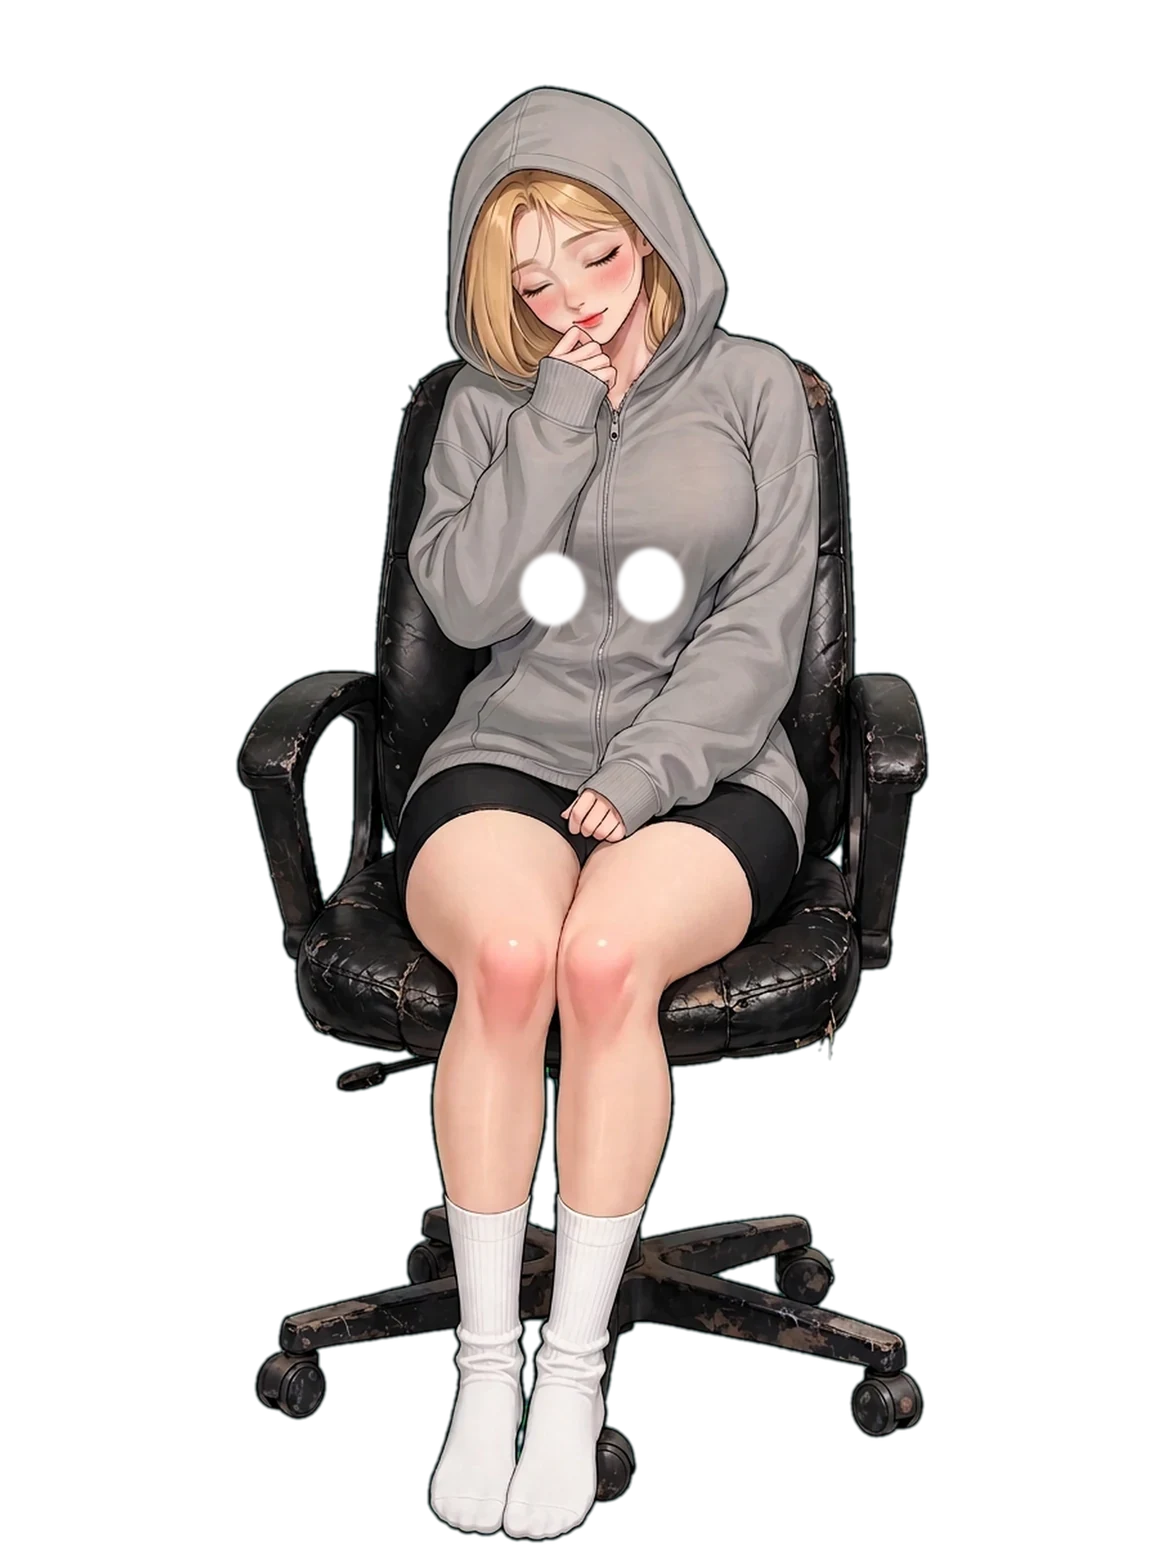
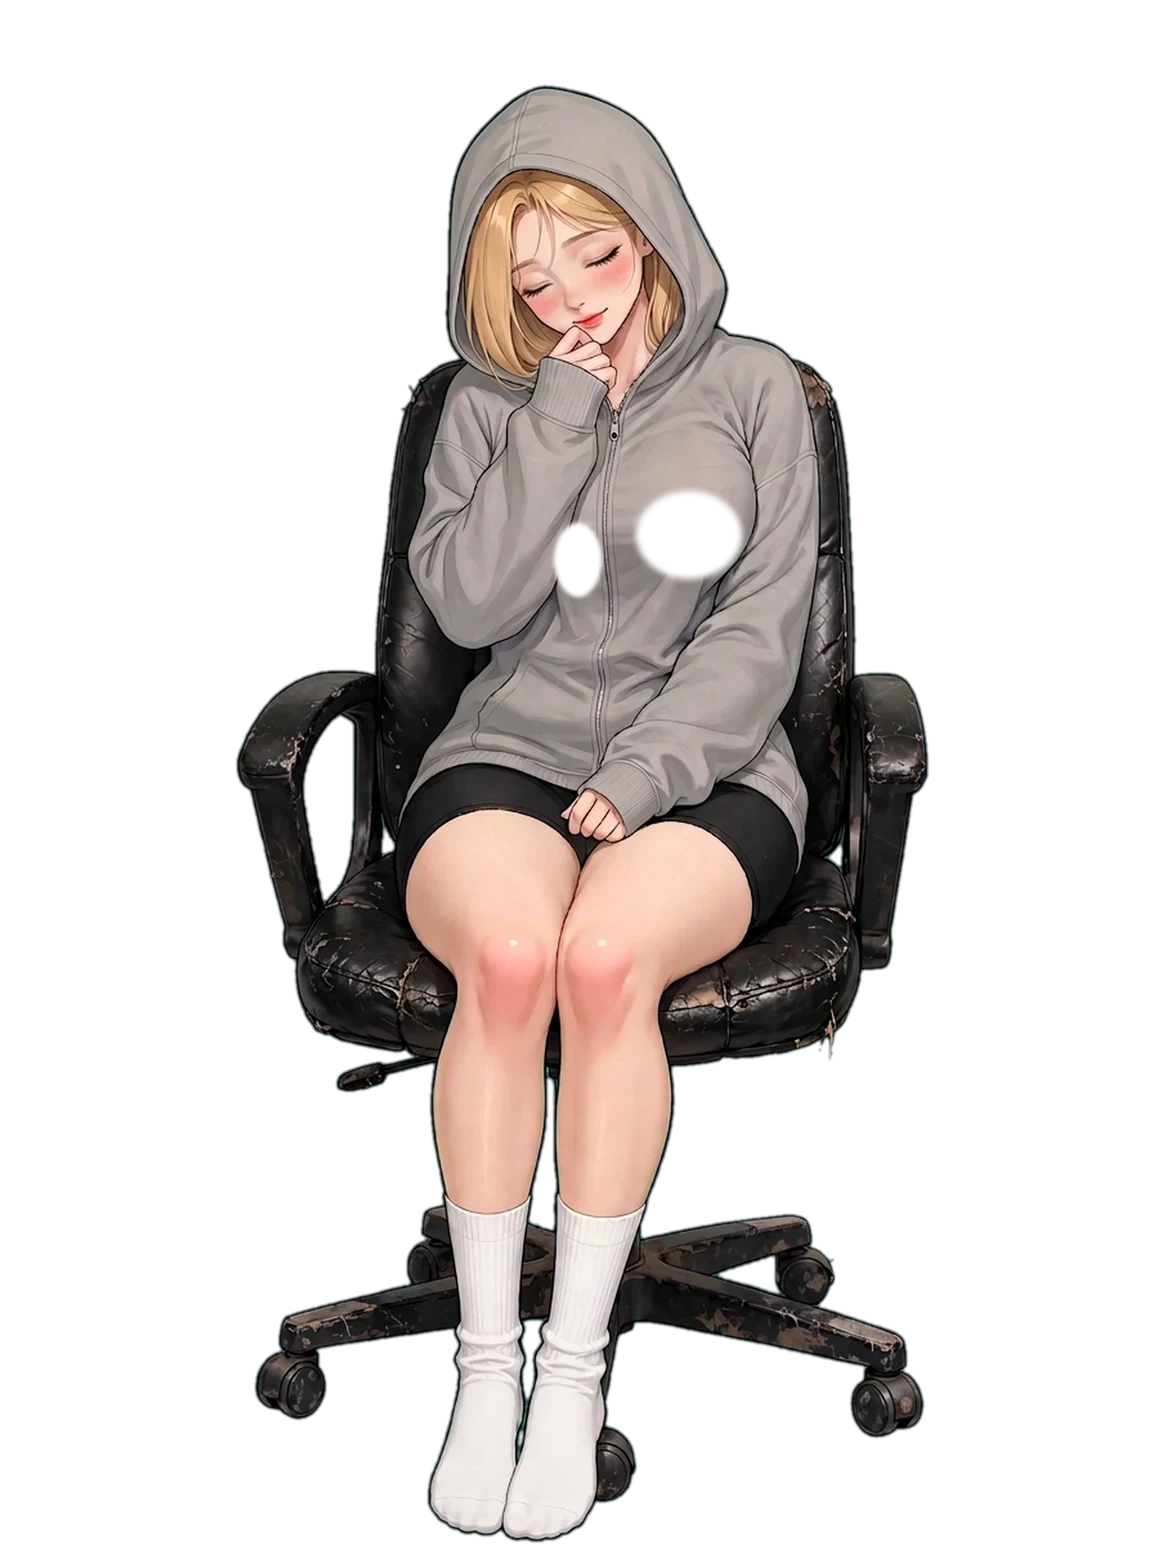
Bust masks for poses 1-2 re-cut onto the real round forms under the hoodie (they were sitting low on the torso, so the belly fabric moved instead of the breast; in pose 1 the visible breast is the right one, the left is behind her arm) and the spring is now one continuous analytic damped curve sampl

Changed region(s): [[0.4308, 0.3077, 0.6462, 0.4]]

diff --git a/index.html b/index.html
@@ -998,23 +998,45 @@ main{
 /* грудь проседает, сплющивается и пружинит обратно */
 /* пружина по физике: быстрое падение (ускорение), отскок с замедлением,
    четыре затухающих колебания. Амплитуда ~0.9 % кадра — мягко, не «дёргается». */
+/* пружина как непрерывная затухающая кривая: быстрое мягкое проседание,
+   затем четыре затухающих колебания. Кейфреймы каждые 4 % от аналитики,
+   поэтому переход между ними линейный и не видно ступенек. */
 @keyframes chestJiggle{
-  0%   { transform:translateY(0)      scale(1, 1);          animation-timing-function:cubic-bezier(.45,0,.95,.55); }
-  7%   { transform:translateY(2.1%)   scale(1.005, 1.013);  animation-timing-function:cubic-bezier(.2,.72,.3,1); }
-  23%  { transform:translateY(-0.85%) scale(0.997, 0.994);  animation-timing-function:cubic-bezier(.3,.7,.4,1); }
-  40%  { transform:translateY(0.38%)  scale(1.002, 1.004);  animation-timing-function:cubic-bezier(.3,.7,.4,1); }
-  57%  { transform:translateY(-0.16%) scale(0.9994, 0.9988); animation-timing-function:cubic-bezier(.3,.7,.4,1); }
-  74%  { transform:translateY(0.06%)  scale(1.0003, 1.0006); }
-  100% { transform:translateY(0)      scale(1, 1); }
+  0%   { transform:translateY(0.000%) scale(1.0000, 1.0000); }
+  4%   { transform:translateY(1.322%) scale(0.9978, 1.0076); }
+  8%   { transform:translateY(2.055%) scale(0.9966, 1.0117); }
+  12%  { transform:translateY(2.219%) scale(0.9963, 1.0127); }
+  16%  { transform:translateY(1.933%) scale(0.9968, 1.0110); }
+  20%  { transform:translateY(1.367%) scale(0.9977, 1.0078); }
+  24%  { transform:translateY(0.699%) scale(0.9988, 1.0040); }
+  28%  { transform:translateY(0.078%) scale(0.9999, 1.0004); }
+  32%  { transform:translateY(-0.394%) scale(1.0007, 0.9977); }
+  36%  { transform:translateY(-0.671%) scale(1.0011, 0.9962); }
+  40%  { transform:translateY(-0.752%) scale(1.0013, 0.9957); }
+  44%  { transform:translateY(-0.674%) scale(1.0011, 0.9962); }
+  48%  { transform:translateY(-0.492%) scale(1.0008, 0.9972); }
+  52%  { transform:translateY(-0.268%) scale(1.0004, 0.9985); }
+  56%  { transform:translateY(-0.054%) scale(1.0001, 0.9997); }
+  60%  { transform:translateY(0.114%) scale(0.9998, 1.0007); }
+  64%  { transform:translateY(0.217%) scale(0.9996, 1.0012); }
+  68%  { transform:translateY(0.254%) scale(0.9996, 1.0014); }
+  72%  { transform:translateY(0.234%) scale(0.9996, 1.0013); }
+  76%  { transform:translateY(0.176%) scale(0.9997, 1.0010); }
+  80%  { transform:translateY(0.102%) scale(0.9998, 1.0006); }
+  84%  { transform:translateY(0.028%) scale(1.0000, 1.0002); }
+  88%  { transform:translateY(-0.032%) scale(1.0001, 0.9998); }
+  92%  { transform:translateY(-0.070%) scale(1.0001, 0.9996); }
+  96%  { transform:translateY(-0.085%) scale(1.0001, 0.9995); }
+  100% { transform:translateY(0.000%) scale(1.0000, 1.0000); }
 }
-.hero .art-chest.hit i{ animation:chestJiggle 1.15s linear; }
+.hero .art-chest.hit i{ animation:chestJiggle 1.5s linear; }
 /* дыхание: на 4-й стадии грудь тяжелее — дышит заметнее */
 @keyframes chestBreathe{
   0%,100% { transform:translateY(0)     scale(1, 1); }
   50%     { transform:translateY(.35%)  scale(1, 1.006); }
 }
 .hero .art-chest.breathe i{ animation:chestBreathe var(--breathe,4.6s) ease-in-out infinite; }
-.hero .art-chest.hit.breathe i{ animation:chestJiggle 1.15s linear; }
+.hero .art-chest.hit.breathe i{ animation:chestJiggle 1.5s linear; }
 @media (prefers-reduced-motion: reduce){
   .hero .art-chest.hit i, .hero .art-chest.breathe i,
   .hero .art-chest.hit.breathe i{ animation:none; }
@@ -1752,8 +1774,8 @@ function motionSync(src){
    Ось вращения — верх груди у грудной стенки, чтобы двигалась именно форма,
    а нарисованный силуэт и всё вокруг оставалось на месте. */
 const BUST_GEO = {
-  sg1: { l:[0.472,0.378,0.040,0.034], r:[0.556,0.375,0.042,0.034] },
-  sg2: { l:[0.424,0.370,0.048,0.045], r:[0.523,0.368,0.045,0.045] },
+  sg1: { l:[0.494,0.359,0.030,0.034], r:[0.589,0.343,0.066,0.041] },
+  sg2: { l:[0.451,0.354,0.060,0.054], r:[0.579,0.348,0.066,0.051] },
   sg3: { l:[0.442,0.345,0.063,0.045], r:[0.586,0.340,0.065,0.047] },
   sg4: { l:[0.429,0.404,0.076,0.074], r:[0.597,0.397,0.072,0.075] },
 };

diff --git a/tools/prep_light.py b/tools/prep_light.py
@@ -20,8 +20,8 @@ CHEST_W = 720
 # Грудь = ДВА отдельных пропа, по одному на каждую «округлость».
 # (cx, cy, rx, ry) — контур груди в долях кадра спрайта: (левая, правая).
 BUST = {
-    'sg1': ((0.472, 0.378, 0.040, 0.034), (0.556, 0.375, 0.042, 0.034)),  # кофта
-    'sg2': ((0.424, 0.370, 0.048, 0.045), (0.523, 0.368, 0.045, 0.045)),
+    'sg1': ((0.494, 0.359, 0.030, 0.034), (0.589, 0.343, 0.066, 0.041)),  # кофта: правая видна целиком, левая за рукой
+    'sg2': ((0.451, 0.354, 0.060, 0.054), (0.579, 0.348, 0.066, 0.051)),
     'sg3': ((0.442, 0.345, 0.063, 0.045), (0.586, 0.340, 0.065, 0.047)),  # топ
     'sg4': ((0.429, 0.404, 0.076, 0.074), (0.597, 0.397, 0.072, 0.075)),  # откинулась
 }
